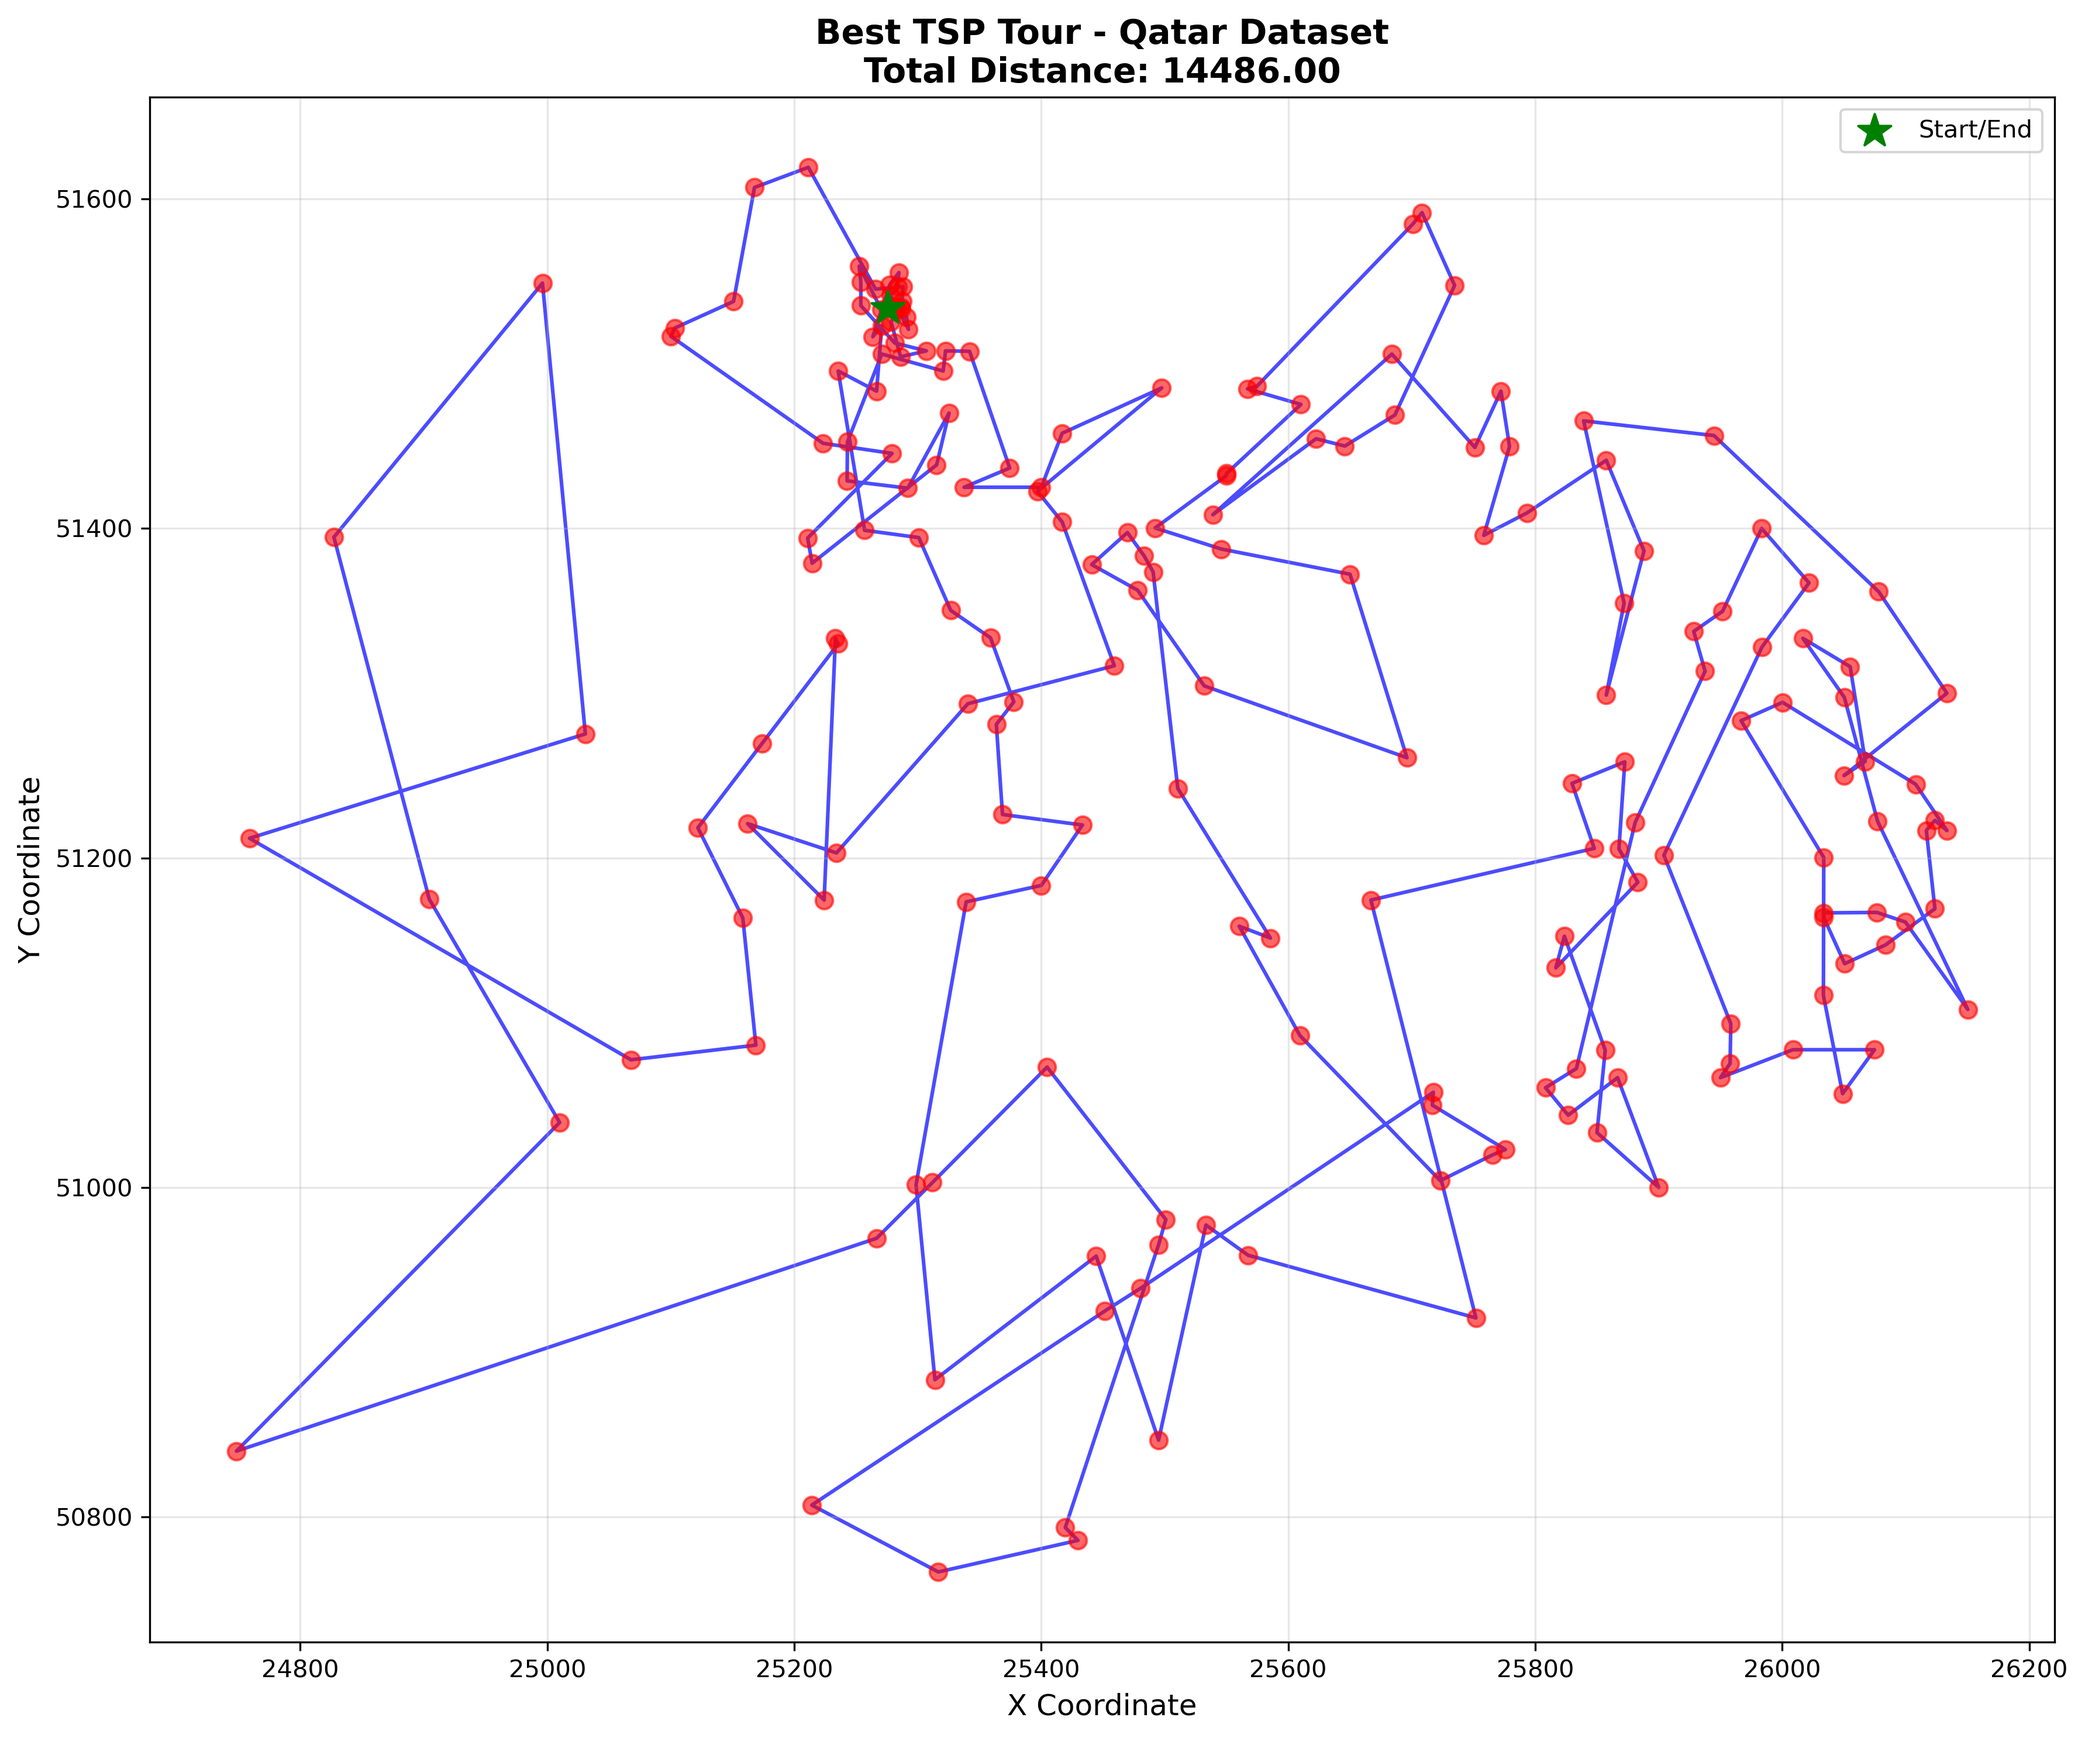
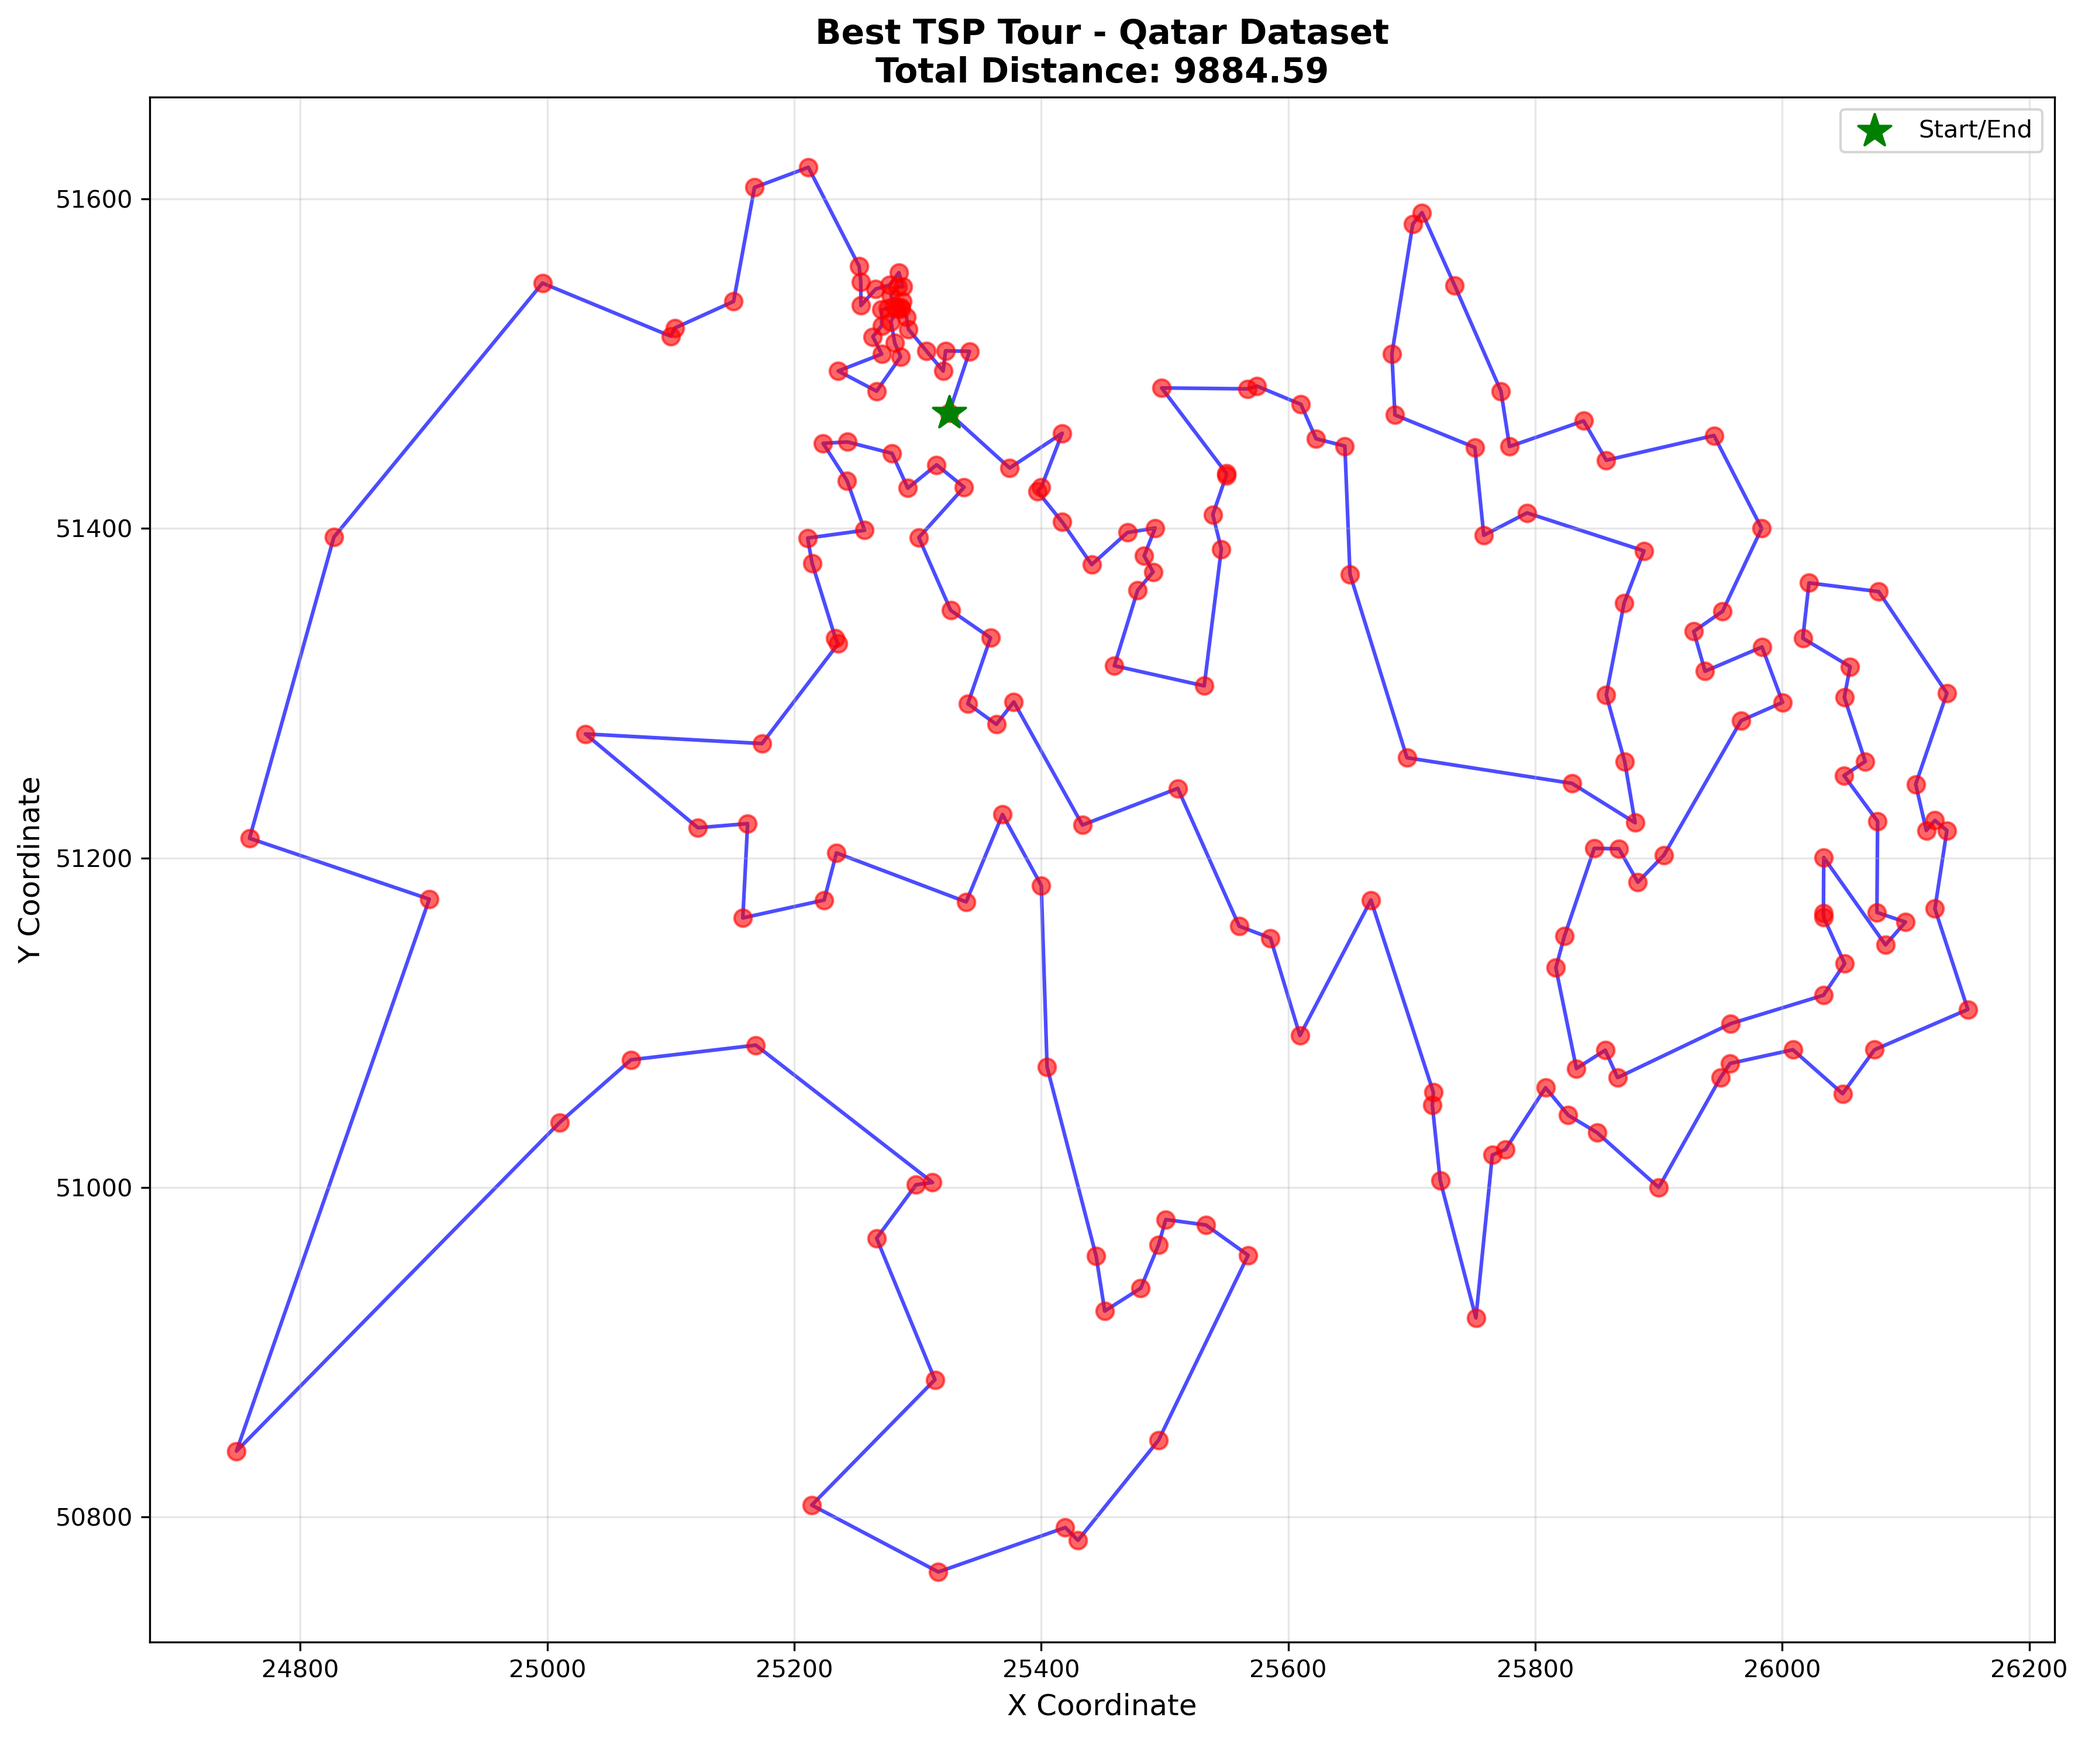
More selection schemes

diff --git a/common/ea_framework.py b/common/ea_framework.py
@@ -16,7 +16,7 @@ class EAFramework(ABC):
                  crossover_rate=0.8, mutation_rate=0.1,
                  elitism_count=2, tournament_size=3,
                  survivor_selection='generational', offspring_size=None,
-                 parent_selection='tournament'):
+                 parent_selection='tournament', enable_hall_of_fame=True):
         """
         Initialize EA parameters
         
@@ -37,6 +37,8 @@ class EAFramework(ABC):
                 - 'tournament': Tournament selection
                 - 'fitness_proportional': Roulette wheel selection (Holland)
                 - 'rank': Rank-based selection
+                - 'random': Random selection (preserves diversity, ignores fitness)
+            enable_hall_of_fame: Whether to maintain a hall of fame archive of best individuals
         """
         self.population_size = population_size
         self.generations = generations
@@ -47,6 +49,7 @@ class EAFramework(ABC):
         self.survivor_selection = survivor_selection
         self.offspring_size = offspring_size or population_size
         self.parent_selection = parent_selection
+        self.enable_hall_of_fame = enable_hall_of_fame
         
         # Statistics tracking
         self.best_fitness_history = []
@@ -54,6 +57,10 @@ class EAFramework(ABC):
         self.worst_fitness_history = []
         self.best_solution = None
         self.best_fitness = float('inf')
+        
+        # Hall of Fame: archive of best individuals found during evolution
+        self.hall_of_fame = []  # List of (individual, fitness) tuples
+        self.hall_of_fame_fitness_history = []  # Best fitness added to HoF each generation
         
     @abstractmethod
     def initialize_population(self) -> List[Any]:
@@ -180,6 +187,30 @@ class EAFramework(ABC):
         
         return population[selected_idx]
     
+    def random_selection(self, population: List[Any],
+                        fitnesses: List[float] = None) -> Any:
+        """
+        Random Selection
+        
+        Selects individuals purely by chance, completely ignoring fitness values.
+        This method:
+        - Returns elements with equal probability regardless of fitness
+        - Effectively performs a random walk through the search space
+        - Maximally preserves population diversity
+        - Useful in combination with separate environmental selection
+        - Good for selecting from an optimal set where all are equally viable
+        
+        Args:
+            population: Current population
+            fitnesses: Fitness values (ignored)
+            
+        Returns:
+            Randomly selected individual
+        """
+        # Select a random index with uniform probability
+        selected_idx = np.random.randint(0, len(population))
+        return population[selected_idx]
+    
     def select_parent(self, population: List[Any], fitnesses: List[float]) -> Any:
         """
         Select a parent using the configured parent selection method
@@ -197,6 +228,8 @@ class EAFramework(ABC):
             return self.fitness_proportional_selection(population, fitnesses)
         elif self.parent_selection == 'rank':
             return self.rank_selection(population, fitnesses)
+        elif self.parent_selection == 'random':
+            return self.random_selection(population, fitnesses)
         else:
             raise ValueError(f"Unknown parent selection method: {self.parent_selection}")
     
@@ -346,6 +379,62 @@ class EAFramework(ABC):
             )
         else:
             raise ValueError(f"Unknown survivor selection: {self.survivor_selection}")
+    
+    def update_hall_of_fame(self, individual: Any, fitness: float):
+        """
+        Update the hall of fame with a new individual.
+        Maintains an archive of the best individuals found during evolution.
+        
+        Args:
+            individual: The individual to potentially add to hall of fame
+            fitness: The fitness value of the individual
+        """
+        if not self.enable_hall_of_fame:
+            return
+        
+        # If hall of fame is empty, add the first individual
+        if len(self.hall_of_fame) == 0:
+            self.hall_of_fame.append((individual.copy(), fitness))
+            self.hall_of_fame_fitness_history.append(fitness)
+            return
+        
+        # Get the best fitness in hall of fame
+        best_hof_fitness = min([f for _, f in self.hall_of_fame])
+        
+        # If new individual is better than worst in hall of fame, add it
+        if fitness <= best_hof_fitness:
+            # Check if this fitness already exists in hall of fame
+            exists = any(f == fitness for _, f in self.hall_of_fame)
+            if not exists:
+                self.hall_of_fame.append((individual.copy(), fitness))
+        
+        # Track the best fitness added/updated in this generation
+        self.hall_of_fame_fitness_history.append(best_hof_fitness)
+    
+    def get_best_from_hall_of_fame(self) -> Tuple[Any, float]:
+        """
+        Get the best individual from the hall of fame.
+        Useful at the last generation or when using hall of fame as parent pool.
+        
+        Returns:
+            Tuple of (best_individual, best_fitness) from hall of fame
+            Returns (None, float('inf')) if hall of fame is empty
+        """
+        if not self.hall_of_fame:
+            return None, float('inf')
+        
+        # Find the best individual in hall of fame
+        best_individual, best_fitness = min(self.hall_of_fame, key=lambda x: x[1])
+        return best_individual, best_fitness
+    
+    def get_hall_of_fame_size(self) -> int:
+        """
+        Get the number of unique individuals in the hall of fame.
+        
+        Returns:
+            Size of hall of fame
+        """
+        return len(self.hall_of_fame)
 
     
     def evolve(self, verbose=True):
@@ -375,6 +464,10 @@ class EAFramework(ABC):
             if fitnesses[best_idx] < self.best_fitness:
                 self.best_fitness = fitnesses[best_idx]
                 self.best_solution = population[best_idx].copy()
+            
+            # Update hall of fame with best individual in this generation
+            if self.enable_hall_of_fame:
+                self.update_hall_of_fame(population[best_idx], fitnesses[best_idx])
             
             if verbose and (generation % 50 == 0 or generation == self.generations - 1):
                 print(f"Generation {generation}: Best={fitnesses[best_idx]:.2f}, "
@@ -412,6 +505,12 @@ class EAFramework(ABC):
             population = self.perform_survivor_selection(
                 population, offspring, fitnesses, offspring_fitnesses
             )
+        
+        # Return best solution (prefer hall of fame if enabled)
+        if self.enable_hall_of_fame and self.hall_of_fame:
+            best_hof_solution, best_hof_fitness = self.get_best_from_hall_of_fame()
+            if best_hof_fitness < self.best_fitness:
+                return best_hof_solution
         
         return self.best_solution
     

diff --git a/TSP/tsp_solver.py b/TSP/tsp_solver.py
@@ -108,7 +108,8 @@ class TSPSolver(EAFramework):
         tour = tour.copy()
         
         # Choose mutation type randomly
-        mutation_type = np.random.choice(['swap', 'inversion', 'scramble'])
+        # mutation_type = np.random.choice(['swap', 'inversion', 'scramble'])
+        mutation_type = 'inversion'  # Force inversion for better performance
         
         if mutation_type == 'swap':
             # Swap two random cities
@@ -260,12 +261,16 @@ def main():
     solver = TSPSolver(
         cities=cities,
         distance_matrix=distance_matrix,
-        population_size=200,
-        generations=1000,
+        population_size=300,
+        generations=2500,
         crossover_rate=0.85,
-        mutation_rate=0.15,
+        mutation_rate=0.25,
         elitism_count=5,
-        tournament_size=5
+        # offspring_size=250,
+        tournament_size=3, 
+        survivor_selection='mu_plus_lambda',
+        parent_selection='tournament',
+        enable_hall_of_fame=True,
     )
     
     print("\nEvolutionary Algorithm Parameters:")
@@ -274,7 +279,10 @@ def main():
     print(f"  Crossover Rate: {solver.crossover_rate}")
     print(f"  Mutation Rate: {solver.mutation_rate}")
     print(f"  Elitism Count: {solver.elitism_count}")
-    print(f"  Tournament Size: {solver.tournament_size}")
+    print(f"  Offspring Size: {solver.offspring_size}")
+    print(f"  Parent Selection: {solver.parent_selection}")
+    print(f"  Survivor Selection: {solver.survivor_selection}")
+    
     print("\nStarting evolution...\n")
     
     # Run evolution
